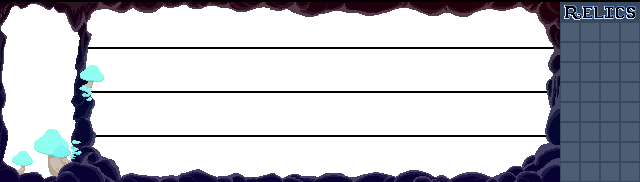
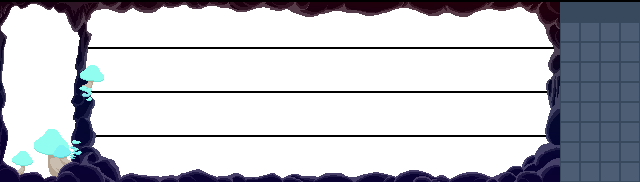
Remove debug kill and "Relics" from battle frame

Changed region(s): [[0.875, 0.0275, 1.0, 0.1099]]

diff --git a/scenes/BattleDirector/scripts/BattleDirector.cs b/scenes/BattleDirector/scripts/BattleDirector.cs
@@ -145,7 +145,7 @@ public partial class BattleDirector : Node2D
         {
             if (eventKey.Keycode == Key.Key0)
             {
-                DebugKillEnemy();
+                //DebugKillEnemy();
             }
         }
     }
